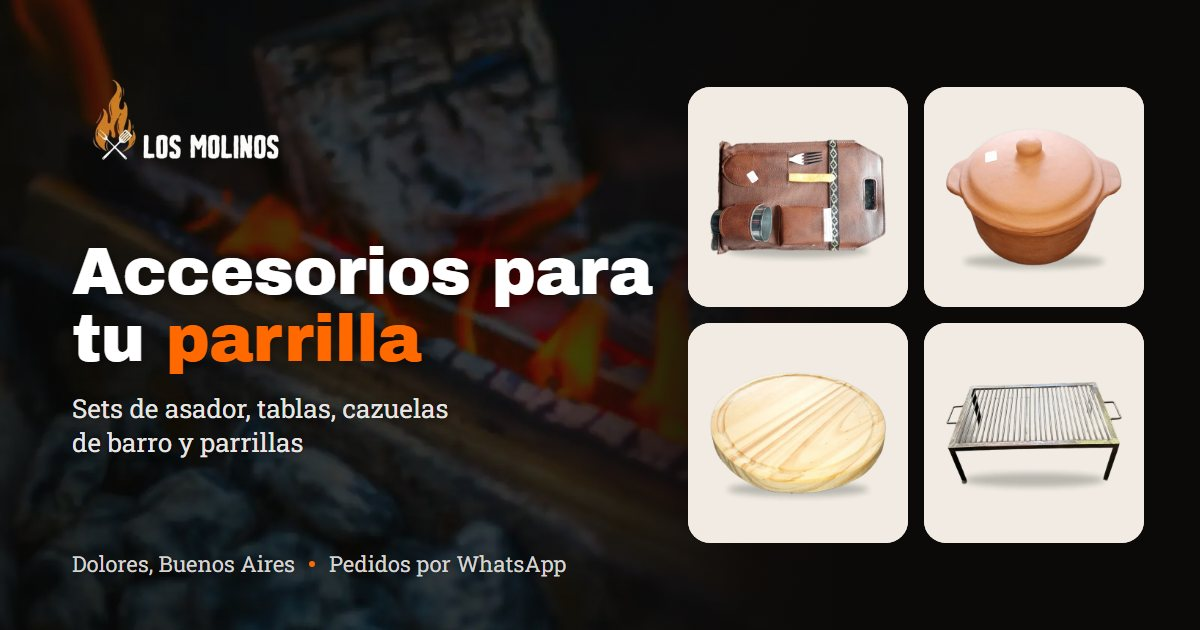
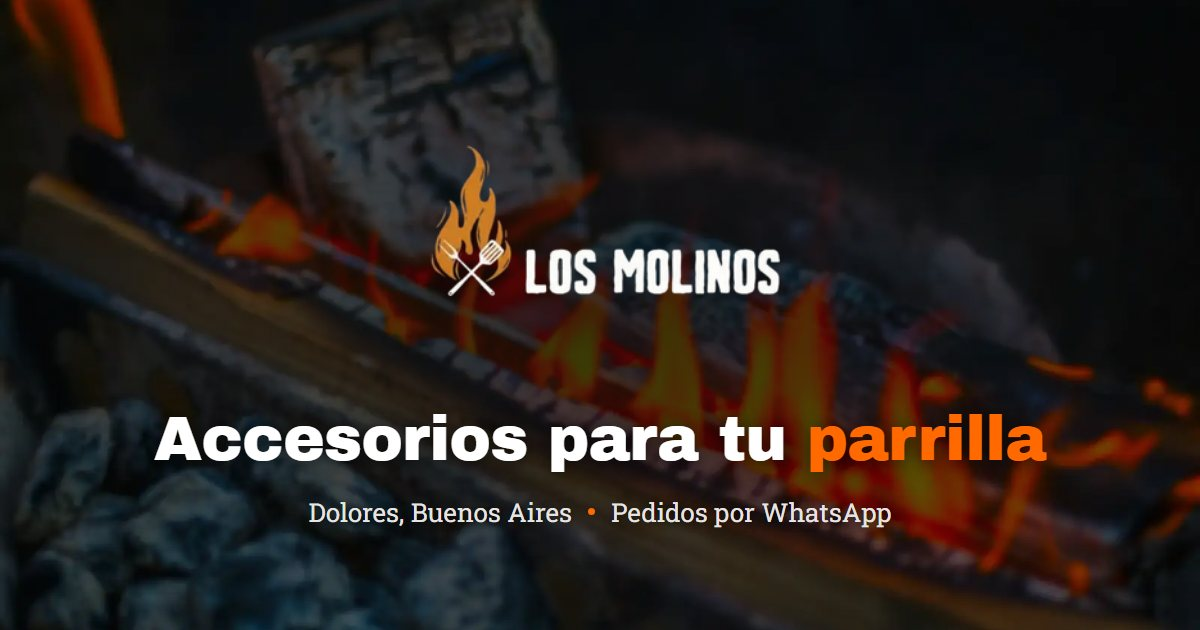
feat: generic link preview image without products
Fire background, logo and headline only, so the preview never shows a product that might be
out of stock.

diff --git a/index.html b/index.html
@@ -28,7 +28,7 @@
     <meta property="og:image" content="%SITE_URL%/og-image.jpg" />
     <meta property="og:image:width" content="1200" />
     <meta property="og:image:height" content="630" />
-    <meta property="og:image:alt" content="Los Molinos Regionales: accesorios para tu parrilla en Dolores, Buenos Aires" />
+    <meta property="og:image:alt" content="Los Molinos Regionales: accesorios para tu parrilla en Dolores, Buenos Aires. Pedidos por WhatsApp" />
     <meta name="twitter:card" content="summary_large_image" />
 
     <!-- Datos del negocio para Google (búsquedas locales) -->
